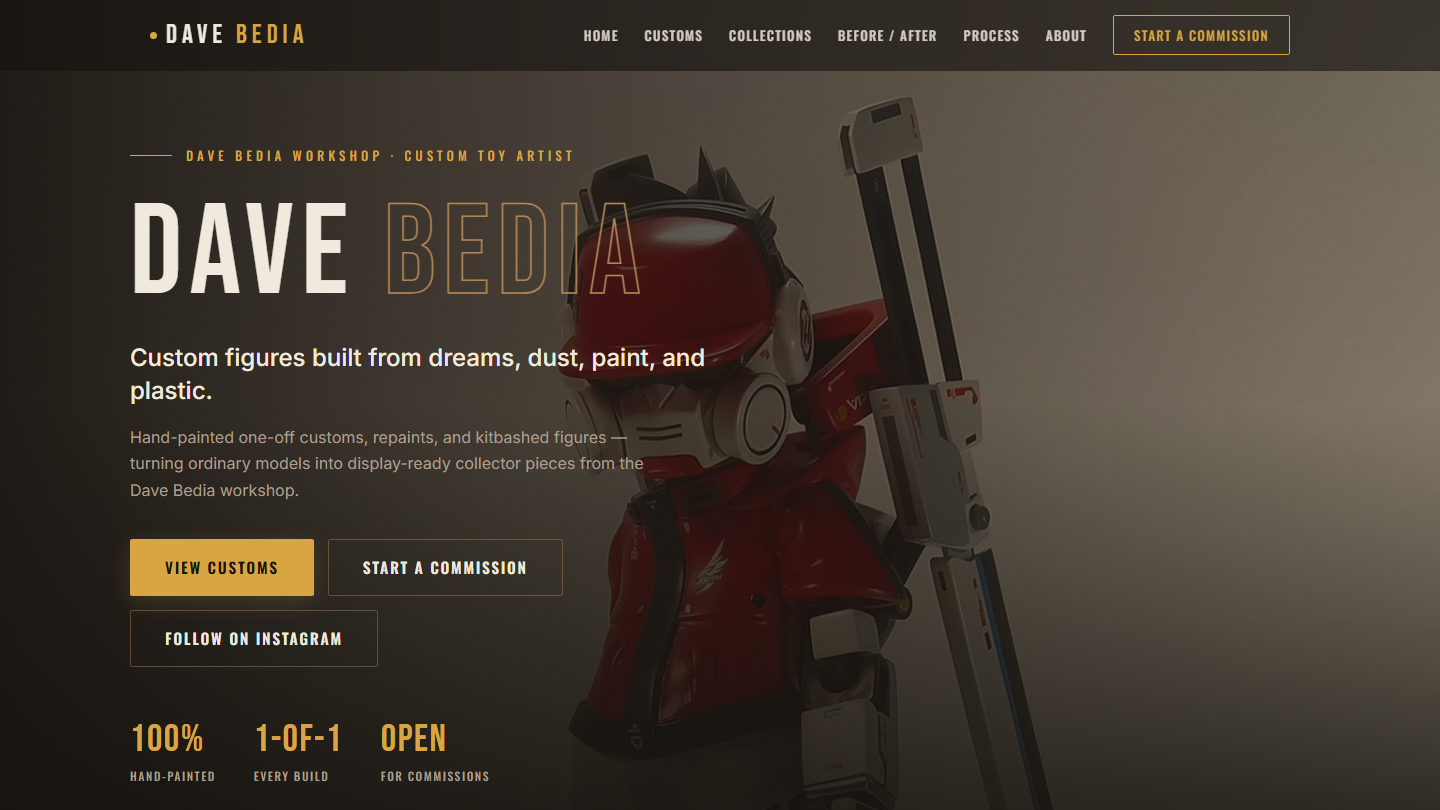
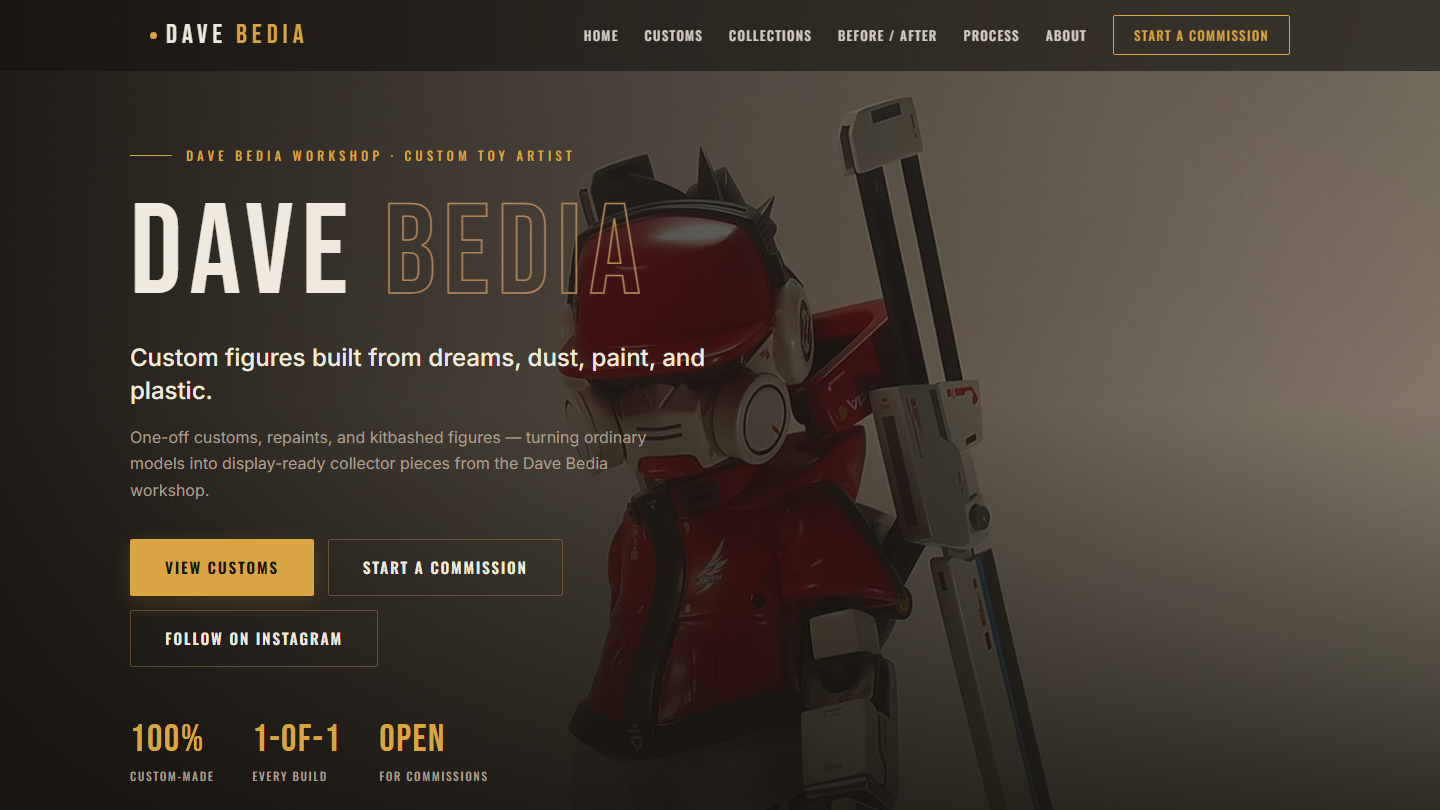
Remove 'hand-painted' wording from Urban variation + refresh V1/V3 previews
Client does not hand-paint; applied to variations 1 and 3 only.

Changed region(s): [[0.0938, 0.5247, 0.4375, 0.6173], [0.1562, 0.8951, 0.3438, 0.9877], [0.0938, 0.9259, 0.1562, 0.9877]]

diff --git a/urban/index.html b/urban/index.html
@@ -3,8 +3,8 @@
 <head>
   <meta charset="UTF-8">
   <meta name="viewport" content="width=device-width, initial-scale=1.0">
-  <title>Dave Bedia — Custom Toy Artist | Hand-Painted Figures &amp; Collectible Art Models</title>
-  <meta name="description" content="Dave Bedia is a Filipino custom toy artist crafting hand-painted figures, repaints, kitbashes, and collectible art models. One-off customs and commissioned builds for serious collectors.">
+  <title>Dave Bedia — Custom Toy Artist | Custom Figures &amp; Collectible Art Models</title>
+  <meta name="description" content="Dave Bedia is a Filipino custom toy artist crafting custom figures, repaints, kitbashes, and collectible art models. One-off customs and commissioned builds for serious collectors.">
   <meta name="author" content="Dave Bedia">
   <link rel="preconnect" href="https://fonts.googleapis.com">
   <link rel="preconnect" href="https://fonts.gstatic.com" crossorigin>
@@ -1041,14 +1041,14 @@
         <p class="hero-tag">Dave Bedia Workshop // Custom Toy Artist</p>
         <h1>DAVE <span class="stroke">BEDIA</span></h1>
         <p class="hero-lead">Custom figures built from <span class="hl">dreams, dust, paint, and plastic.</span></p>
-        <p class="hero-sub">Hand-painted one-off customs, repaints, and kitbashed figures — turning ordinary models into display-ready collector drops from the Dave Bedia workshop.</p>
+        <p class="hero-sub">One-off customs, repaints, and kitbashed figures — turning ordinary models into display-ready collector drops from the Dave Bedia workshop.</p>
         <div class="hero-ctas">
           <a href="#customs" class="btn btn-primary">View Customs</a>
           <a href="#contact" class="btn btn-ghost">Start a Commission</a>
           <a href="#" class="btn btn-ghost" data-social="instagram" target="_blank" rel="noopener">Follow on Instagram</a>
         </div>
         <div class="hero-stats">
-          <div class="stat"><h3>100%</h3><p>Hand-Painted</p></div>
+          <div class="stat"><h3>100%</h3><p>Custom-Made</p></div>
           <div class="stat"><h3>1-of-1</h3><p>Every Build</p></div>
           <div class="stat"><h3>Open</h3><p>For Commissions</p></div>
         </div>
@@ -1183,7 +1183,7 @@
         <div class="about-text reveal">
           <span class="eyebrow">The Artist</span>
           <h2>About <span class="pop">Dave Bedia</span></h2>
-          <p>Dave Bedia is a Filipino custom toy artist focused on <span class="highlight">hand-painted figures, kitbashes, repaints, and collectible art models</span>. His work combines model-making, airbrush painting, detailing, and character customization to turn ordinary figures into one-of-a-kind collector pieces.</p>
+          <p>Dave Bedia is a Filipino custom toy artist focused on <span class="highlight">custom figures, kitbashes, repaints, and collectible art models</span>. His work combines model-making, airbrush painting, detailing, and character customization to turn ordinary figures into one-of-a-kind collector pieces.</p>
           <p>Every build starts with a conversation — your vision, your favorite character, your dream design — and ends with a display-ready piece made to last. No two customs are ever the same.</p>
           <div class="about-meta">
             <div class="am-block">
@@ -1265,7 +1265,7 @@
     <div class="footer-inner">
       <div class="footer-brand">
         <div class="logo"><span class="dot"></span>DAVE <b>BEDIA</b></div>
-        <p>Hand-painted custom figures and collectible art models from the Dave Bedia workshop.</p>
+        <p>Custom figures and collectible art models from the Dave Bedia workshop.</p>
       </div>
       <div class="footer-socials">
         <a href="#" data-social="instagram" target="_blank" rel="noopener" aria-label="Instagram"><svg viewBox="0 0 24 24"><path d="M7.8 2h8.4C19.4 2 22 4.6 22 7.8v8.4a5.8 5.8 0 0 1-5.8 5.8H7.8C4.6 22 2 19.4 2 16.2V7.8A5.8 5.8 0 0 1 7.8 2m-.2 2A3.6 3.6 0 0 0 4 7.6v8.8C4 18.39 5.61 20 7.6 20h8.8a3.6 3.6 0 0 0 3.6-3.6V7.6C20 5.61 18.39 4 16.4 4H7.6m9.65 1.5a1.25 1.25 0 0 1 1.25 1.25A1.25 1.25 0 0 1 17.25 8 1.25 1.25 0 0 1 16 6.75a1.25 1.25 0 0 1 1.25-1.25M12 7a5 5 0 0 1 5 5 5 5 0 0 1-5 5 5 5 0 0 1-5-5 5 5 0 0 1 5-5m0 2a3 3 0 0 0-3 3 3 3 0 0 0 3 3 3 3 0 0 0 3-3 3 3 0 0 0-3-3z"/></svg></a>
@@ -1273,7 +1273,7 @@
         <a href="#" data-social="email" aria-label="Email"><svg viewBox="0 0 24 24"><path d="M20 4H4c-1.1 0-2 .9-2 2v12c0 1.1.9 2 2 2h16c1.1 0 2-.9 2-2V6c0-1.1-.9-2-2-2zm0 4l-8 5-8-5V6l8 5 8-5v2z"/></svg></a>
       </div>
     </div>
-    <div class="footer-bottom">&copy; 2026 Dave Bedia Workshop. All customs are one-off, hand-painted collector pieces.</div>
+    <div class="footer-bottom">&copy; 2026 Dave Bedia Workshop. All customs are one-off collector pieces.</div>
   </footer>
 
   <!-- ====================== MODAL / LIGHTBOX ====================== -->
@@ -1323,7 +1323,7 @@
         scale: '8-inch (Mego scale)',        // REPLACE if different
         materials: 'Acrylic paint, airbrush, panel lining, topcoat',
         status: 'personal',
-        desc: 'A hand-painted RX-78 custom transformed from bare primer gray to a clean, mecha-inspired finish with panel lining and a collector-style display presentation.',
+        desc: 'A custom RX-78 transformed from bare primer gray to a clean, mecha-inspired finish with panel lining and a collector-style display presentation.',
         media: [
           { type: 'image', src: '../portfolio_materials/img/Custom Mego RX-78.jpg' },
           { type: 'image', src: '../portfolio_materials/img/Custom Mego RX-78(2).jpg' },
@@ -1367,7 +1367,7 @@
         scale: '12-inch',
         materials: 'Acrylic paint, airbrush, panel work, topcoat',  // REPLACE
         status: 'personal',
-        desc: 'A 12-inch Mego Megazord given the full custom treatment — hand-painted detailing, panel work, and clean color separation that bring this classic mech to life from every angle.',
+        desc: 'A 12-inch Mego Megazord given the full custom treatment — fine detailing, panel work, and clean color separation that bring this classic mech to life from every angle.',
         media: [
           { type: 'image', src: '../portfolio_materials/MEGO MEGAZORD 12 Inches/mega_front.jpg' },
           { type: 'image', src: '../portfolio_materials/MEGO MEGAZORD 12 Inches/1000008070.jpg' },
@@ -1435,7 +1435,7 @@
 
     /* ---------- Marquee ticker (CSS animation, JS only fills content) ---------- */
     (function buildMarquee() {
-      const items = ['Custom Toy Artist', 'Hand-Painted', '1-of-1 Drops', 'Repaints', 'Kitbash Builds', 'Mecha Customs', 'Commissions Open', 'Collector-Grade'];
+      const items = ['Custom Toy Artist', 'Custom Builds', '1-of-1 Drops', 'Repaints', 'Kitbash Builds', 'Mecha Customs', 'Commissions Open', 'Collector-Grade'];
       const half = items.map(t => `<span>${t}</span><span class="star">✶</span>`).join('');
       const full = half + half; // duplicated so the -50% loop is seamless
       ['marqueeTrack', 'marqueeTrack2'].forEach(id => {
